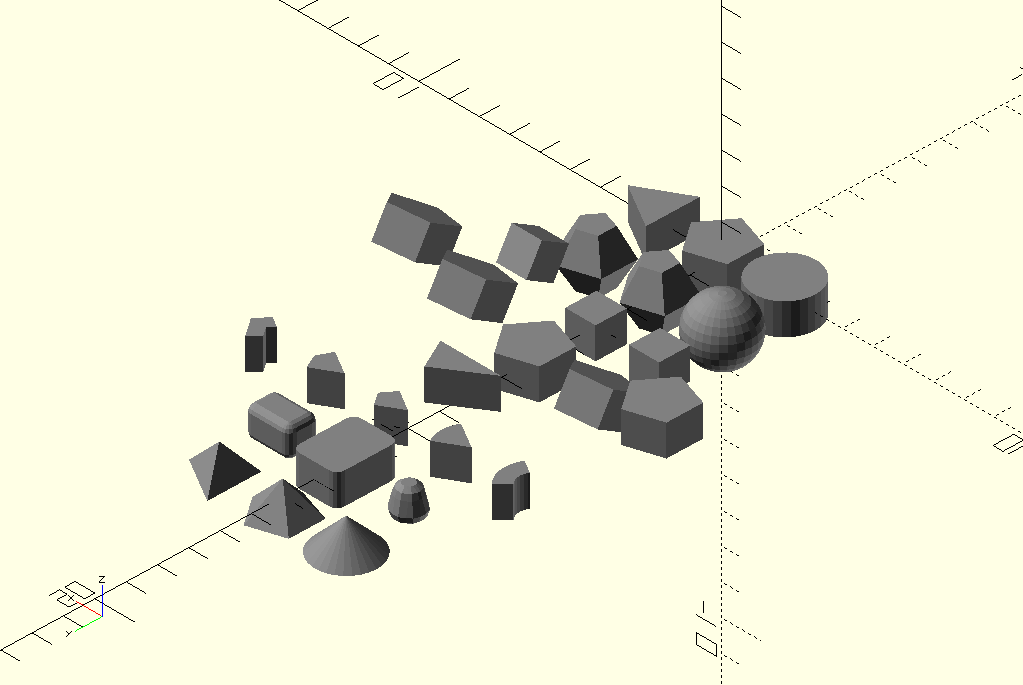
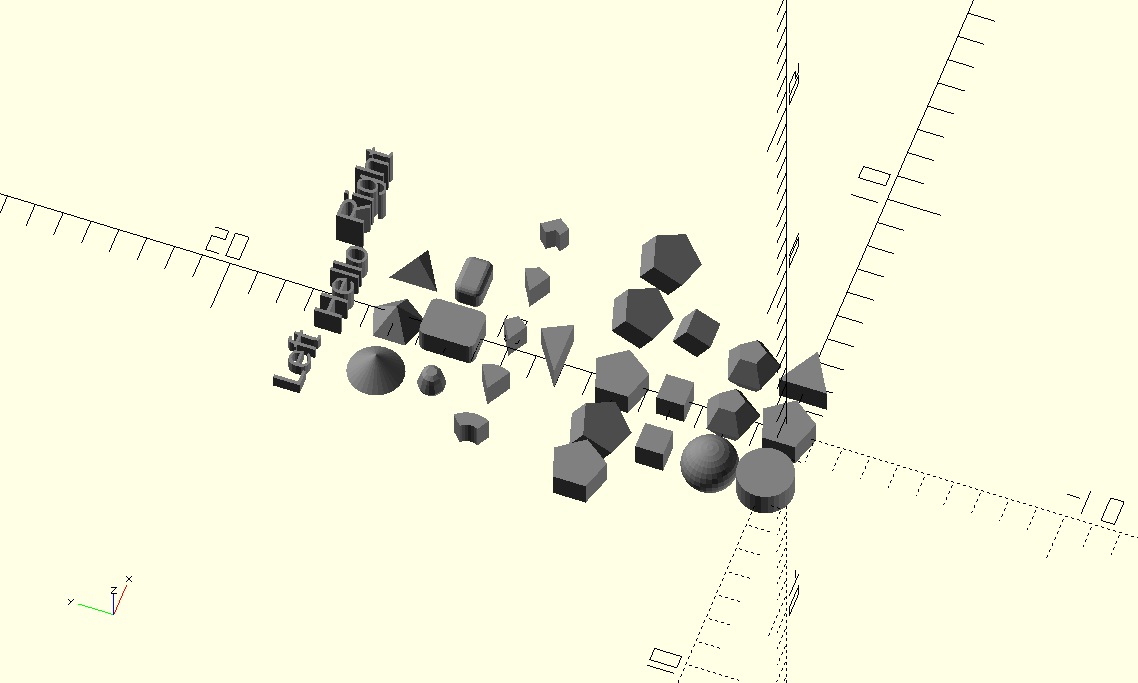
#13 text added, version increase to 0.2.3

diff --git a/README.md b/README.md
@@ -5,7 +5,7 @@
 Make OpenScad code more compact - include all translate/rotate/scale/mirror commands as parameters to basic primitives
 
 ## Verison
- - 0.2.2.20210804
+ - 0.2.3.20210824
  
 ## Primitives
 
@@ -22,6 +22,7 @@ Make OpenScad code more compact - include all translate/rotate/scale/mirror comm
  - yMinkTrapezoidSphere
  - yTube
  - yCone
+ - yText
 
 ![alt text](https://github.com/ayaromenok/p3dLib/blob/master/png/lib2_test.png?raw=true)
 
